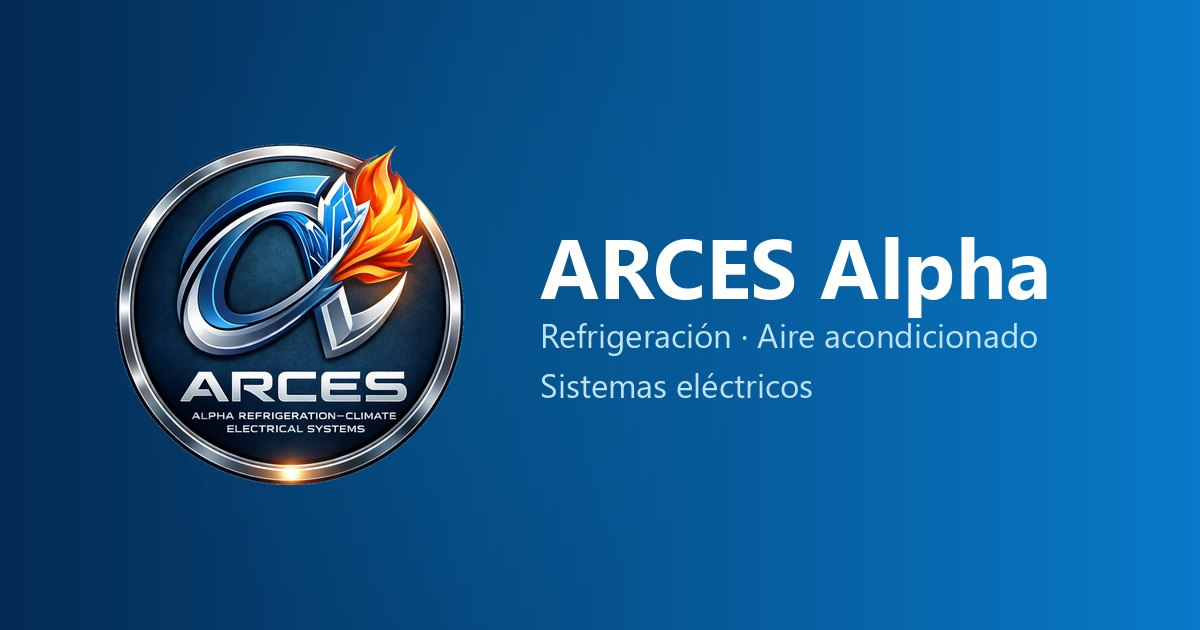
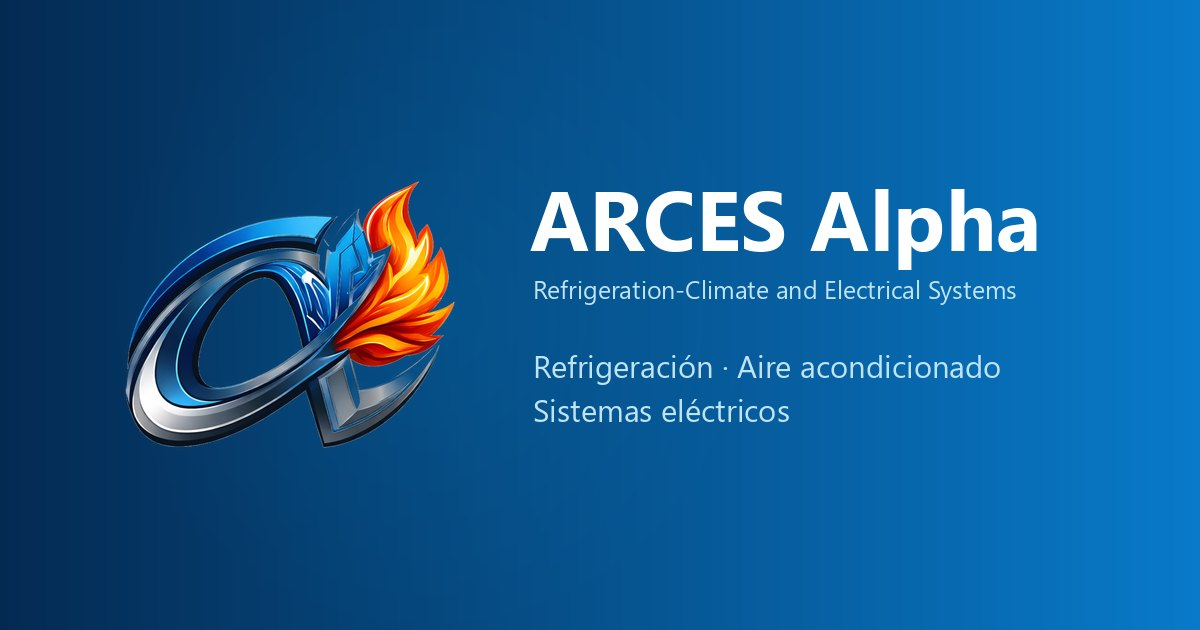
Actualiza diseño

Changed region(s): [[0.0925, 0.2111, 0.4008, 0.7841], [0.4317, 0.3016, 0.8942, 0.6937]]

diff --git a/index.html b/index.html
@@ -3,14 +3,14 @@
 <head>
     <meta charset="UTF-8">
     <meta name="viewport" content="width=device-width, initial-scale=1.0">
-    <meta name="description" content="ARCES Alpha Refrigeration, Climate and Electrical Systems. Refrigeración industrial y comercial, aire acondicionado, clima y sistemas eléctricos para tu empresa u hogar.">
+    <meta name="description" content="ARCES Alpha Refrigeration-Climate and Electrical Systems. Refrigeración industrial y comercial, aire acondicionado, clima y sistemas eléctricos para tu empresa u hogar.">
     <meta name="theme-color" content="#063B70">
     <link rel="canonical" href="https://adminarces-sys.github.io/web_arces/">
-    <title>ARCES Alpha | Refrigeración, Clima y Sistemas Eléctricos</title>
+    <title>ARCES Alpha | Refrigeration-Climate and Electrical Systems</title>
 
     <!-- Open Graph / WhatsApp / redes sociales -->
     <meta property="og:type" content="website">
-    <meta property="og:site_name" content="ARCES Alpha">
+    <meta property="og:site_name" content="ARCES Alpha Refrigeration-Climate and Electrical Systems">
     <meta property="og:locale" content="es_MX">
     <meta property="og:url" content="https://adminarces-sys.github.io/web_arces/">
     <meta property="og:title" content="ARCES Alpha | Refrigeración, Clima y Sistemas Eléctricos">
@@ -18,7 +18,7 @@
     <meta property="og:image" content="https://adminarces-sys.github.io/web_arces/og-image.jpg">
     <meta property="og:image:width" content="1200">
     <meta property="og:image:height" content="630">
-    <meta property="og:image:alt" content="Logotipo de ARCES Alpha con la leyenda Refrigeración, Aire acondicionado y Sistemas eléctricos">
+    <meta property="og:image:alt" content="Logotipo de ARCES Alpha Refrigeration-Climate and Electrical Systems con la leyenda Refrigeración, Aire acondicionado y Sistemas eléctricos">
     <meta name="twitter:card" content="summary_large_image">
     <meta name="twitter:title" content="ARCES Alpha | Refrigeración, Clima y Sistemas Eléctricos">
     <meta name="twitter:description" content="Refrigeración industrial y comercial, aire acondicionado y sistemas eléctricos en Río Grande, Zacatecas.">
@@ -35,7 +35,7 @@
         {
             "@context": "https://schema.org",
             "@type": "HVACBusiness",
-            "name": "ARCES Alpha Refrigeration, Climate & Electrical Systems",
+            "name": "ARCES Alpha Refrigeration-Climate and Electrical Systems",
             "alternateName": "ARCES Alpha",
             "url": "https://adminarces-sys.github.io/web_arces/",
             "logo": "https://adminarces-sys.github.io/web_arces/logo-emblema.png",
@@ -77,14 +77,14 @@
 
     <header class="header">
         <div class="container header-inner">
-            <a href="#inicio" class="logo" aria-label="ARCES Alpha - Inicio">
+            <a href="#inicio" class="logo" aria-label="ARCES Alpha Refrigeration-Climate and Electrical Systems - Inicio">
                 <picture>
                     <source srcset="logo-simbolo.webp" type="image/webp">
                     <img class="logo-simbolo" src="logo-simbolo.png" alt="" width="200" height="163" decoding="async">
                 </picture>
                 <span class="logo-texto">
                     <span class="logo-nombre">ARCES <span>Alpha</span></span>
-                    <span class="logo-lema">Refrigeration · Climate · Electrical</span>
+                    <span class="logo-lema">Refrigeration-Climate and Electrical Systems</span>
                 </span>
             </a>
 
@@ -152,6 +152,18 @@
                         </div>
                         <div class="cubo-cara cara-aire">
                             <span class="cara-etiqueta">Aire Acondicionado</span>
+                        </div>
+                        <div class="cubo-cara cara-logo">
+                            <picture>
+                                <source srcset="logo-emblema.webp" type="image/webp">
+                                <img src="logo-emblema.png" alt="" width="320" height="314" decoding="async">
+                            </picture>
+                        </div>
+                        <div class="cubo-cara cara-lavadoras">
+                            <span class="cara-etiqueta">Reparación de Lavadoras<small>Domésticas e industriales</small></span>
+                        </div>
+                        <div class="cubo-cara cara-automatizacion">
+                            <span class="cara-etiqueta">Automatización</span>
                         </div>
                         <div class="cubo-cara cara-logo">
                             <picture>
@@ -456,7 +468,7 @@
                         <h3>¿Prefieres atención directa?</h3>
                         <p>Escanea con tu celular o haz clic en el botón para abrir WhatsApp y empezar a chatear con nosotros.</p>
                         <a href="https://wa.me/526771078799" target="_blank" rel="noopener" class="boton-qr" aria-label="Escanea el código QR para abrir WhatsApp">
-                            <img src="qr-whatsapp.png" alt="Código QR de WhatsApp" width="462" height="462">
+                            <img src="qr-whatsapp.png" alt="Código QR de WhatsApp" width="462" height="462" loading="lazy" decoding="async">
                         </a>
                         <span class="tarjeta-cta-hint">WhatsApp · Escanea o haz clic</span>
                     </div>
@@ -468,17 +480,17 @@
     <footer class="footer">
         <div class="container footer-grid">
             <div class="footer-marca">
-                <a href="#inicio" class="logo" aria-label="ARCES Alpha - Inicio">
+                <a href="#inicio" class="logo" aria-label="ARCES Alpha Refrigeration-Climate and Electrical Systems - Inicio">
                     <picture>
                         <source srcset="logo-simbolo.webp" type="image/webp">
                         <img class="logo-simbolo" src="logo-simbolo.png" alt="" width="200" height="163" loading="lazy" decoding="async">
                     </picture>
                     <span class="logo-texto">
                         <span class="logo-nombre">ARCES <span>Alpha</span></span>
-                        <span class="logo-lema">Refrigeration · Climate · Electrical</span>
+                        <span class="logo-lema">Refrigeration-Climate and Electrical Systems</span>
                     </span>
                 </a>
-                <p>Refrigeration, Climate &amp; Electrical Systems. Soluciones confiables de refrigeración, aire acondicionado y sistemas eléctricos.</p>
+                <p>ARCES Alpha Refrigeration-Climate and Electrical Systems. Soluciones confiables de refrigeración, aire acondicionado y sistemas eléctricos.</p>
             </div>
             <nav class="footer-col" aria-label="Enlaces del sitio">
                 <h4>Navegación</h4>
@@ -517,7 +529,7 @@
             </a>
         </div>
         <div class="container footer-barra">
-            <p>© <span id="anio">2026</span> ARCES Alpha Refrigeration, Climate &amp; Electrical Systems. Todos los derechos reservados.</p>
+            <p>© <span id="anio">2026</span> ARCES Alpha Refrigeration-Climate and Electrical Systems. Todos los derechos reservados.</p>
         </div>
     </footer>
 

diff --git a/style.css b/style.css
@@ -411,6 +411,18 @@ button:focus-visible {
     transform: rotateX(90deg) translateZ(100px);
 }
 
+.cubo-cara:nth-child(4) {
+    transform: rotateY(180deg) translateZ(100px);
+}
+
+.cubo-cara:nth-child(5) {
+    transform: rotateY(-90deg) translateZ(100px);
+}
+
+.cubo-cara:nth-child(6) {
+    transform: rotateX(-90deg) translateZ(100px);
+}
+
 .cara-refri {
     background-color: var(--azul-marino);
     background-image: url('img-refri-icon.svg');
@@ -425,6 +437,22 @@ button:focus-visible {
     background-position: center 42%;
     background-repeat: no-repeat;
     background-size: 66% auto;
+}
+
+.cara-lavadoras {
+    background-color: var(--azul-marino);
+    background-image: url('img-lavadora-icon.svg');
+    background-position: center 36%;
+    background-repeat: no-repeat;
+    background-size: 62% auto;
+}
+
+.cara-automatizacion {
+    background-color: var(--azul-marino);
+    background-image: url('img-automatizacion-icon.svg');
+    background-position: center 40%;
+    background-repeat: no-repeat;
+    background-size: 62% auto;
 }
 
 .cara-logo {
@@ -444,6 +472,12 @@ button:focus-visible {
     height: auto;
 }
 
+/* Las caras superior e inferior quedan boca abajo: se endereza el emblema */
+.cubo-cara:nth-child(3) picture,
+.cubo-cara:nth-child(6) picture {
+    transform: rotate(180deg);
+}
+
 .cara-etiqueta {
     position: absolute;
     left: 0;
@@ -458,6 +492,15 @@ button:focus-visible {
     letter-spacing: 0.3px;
     color: var(--blanco);
     background: linear-gradient(transparent, rgba(4, 42, 80, 0.92));
+}
+
+.cara-etiqueta small {
+    display: block;
+    margin-top: 2px;
+    font-size: 10px;
+    font-weight: 600;
+    letter-spacing: 0.2px;
+    color: rgba(255, 255, 255, 0.78);
 }
 
 @keyframes girar {
@@ -1166,6 +1209,21 @@ button:focus-visible {
 
     .footer-grid {
         grid-template-columns: 1fr 1fr;
+    }
+}
+
+@media (min-width: 901px) and (max-width: 1260px) {
+    .logo-lema {
+        display: none;
+    }
+
+    .menu-lista a {
+        padding: 9px 11px;
+    }
+
+    .btn-nav {
+        padding: 12px 18px;
+        white-space: nowrap;
     }
 }
 
